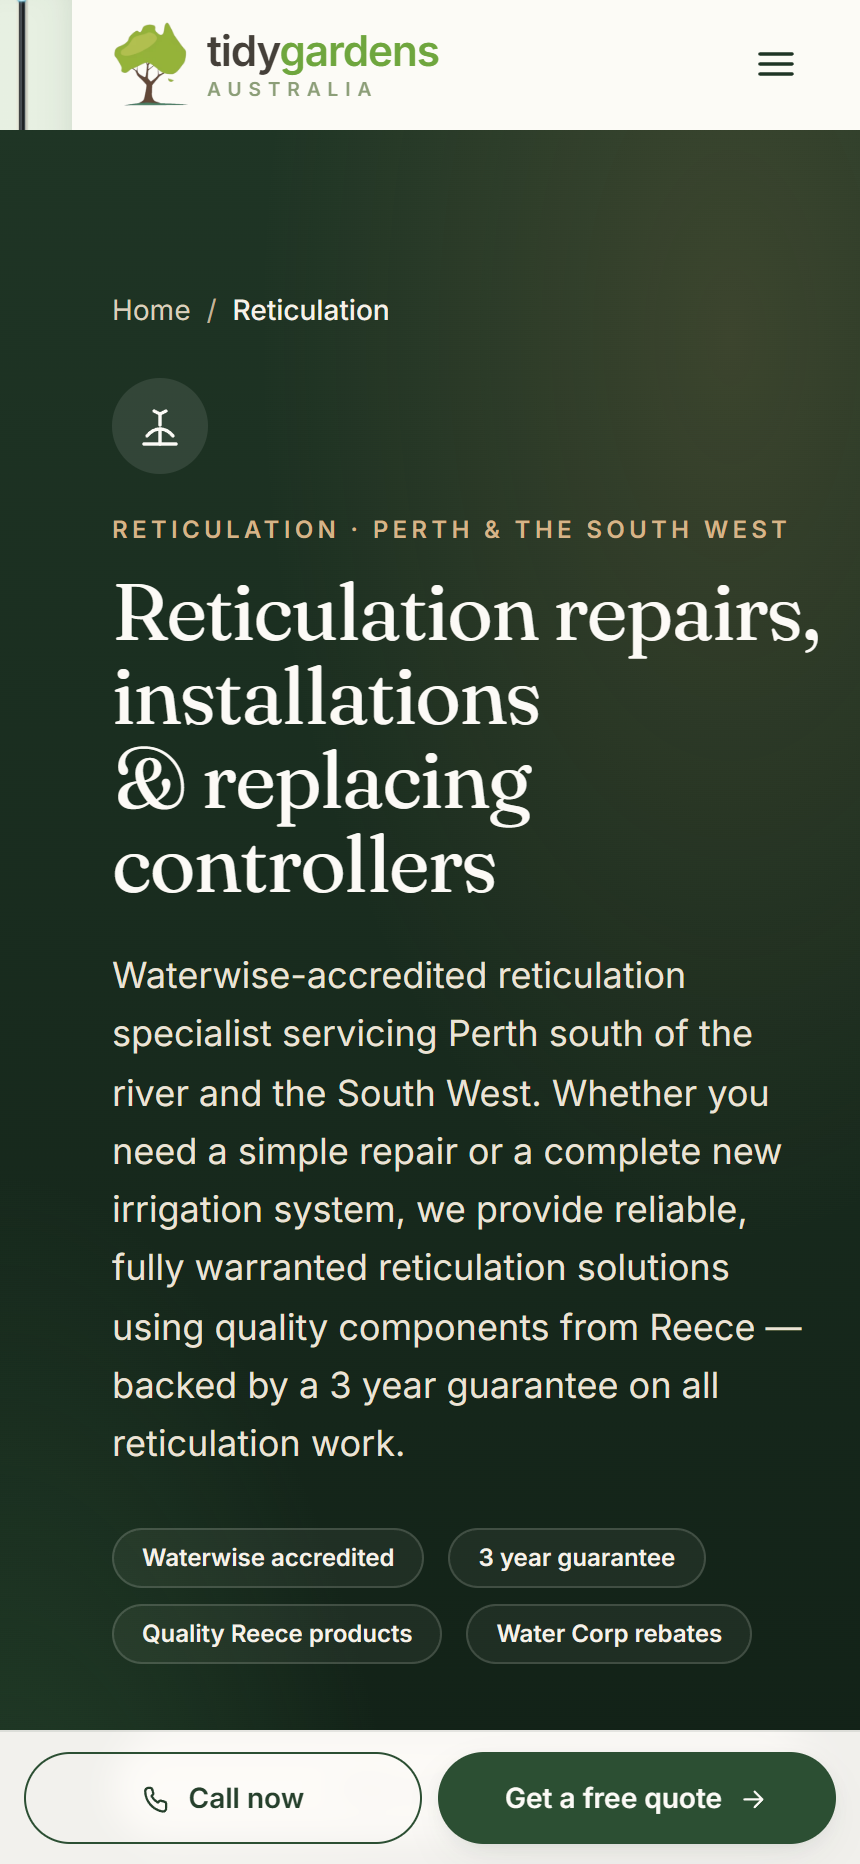
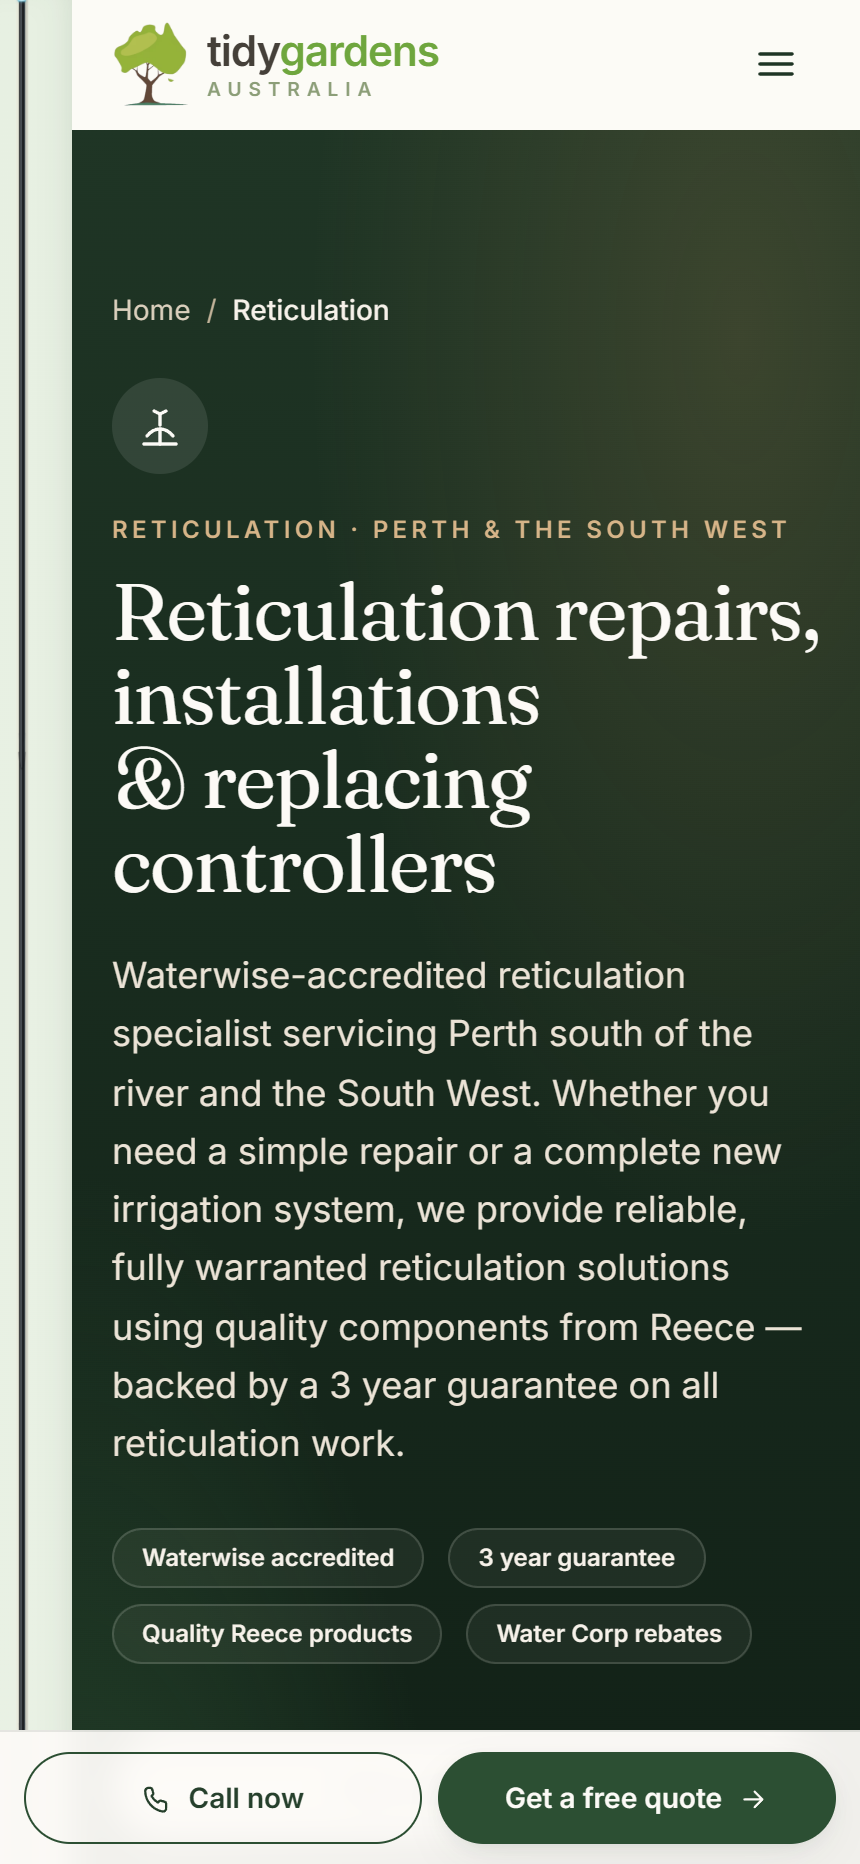
feat(web): concept faces get dual links (live site + portfolio); refreshed Tidy captures
- Each concept on the ServiceWeb carousel now offers TWO ways in: "Live site"
  (opens the deployment in a new tab) and either "Case study" (Barry's, Wooster,
  JK) or "Portfolio" (VEER + IOPA → the Concepts filter, no individual entry
  yet). The whole-card single link is replaced by two explicit action buttons;
  a gentle drag release now holds the drum still so both are tappable on mobile.
- Tidy Gardens recaptured (its inner service pages changed again — reticulation
  + lawn-care grew); web-arm webp re-derived (tidy-hero / tidy-f2 / tidy-f3 /
  plx-tidy).

diff --git a/src/components/web-arm/ConceptCarousel.jsx b/src/components/web-arm/ConceptCarousel.jsx
@@ -5,9 +5,11 @@
  *   · Idles at a slow spin (3°/s), pauses under the pointer, and
  *     hands over to drag — pointer velocity carries through release
  *     with inertia, then the idle drift resumes.
- *   · Every face is a real link (three case studies, two live concept
- *     sites). A drag past 6px suppresses the click so spinning never
- *     misfires a navigation.
+ *   · Every face offers TWO links — the live deployment and its place
+ *     in the portfolio (a case study, or the Concepts filter for the
+ *     two without their own entry yet). A drag past 6px suppresses the
+ *     click so spinning never misfires a navigation; a gentle release
+ *     holds the drum still so both links are tappable on a phone.
  *   · Arrow keys rotate one face per press (the wrap is focusable).
  *   · staticMode / prefers-reduced-motion: the five render as a flat
  *     shelf — no cylinder, no rAF, nothing moves.
@@ -24,14 +26,18 @@ import cptJk from './assets/cpt-jk.webp';
 import cptVeer from './assets/cpt-veer.webp';
 import cptIopa from './assets/cpt-iopa.webp';
 
+/* Every concept offers TWO ways in: the live deployment, and its place
+   in the portfolio (a dedicated case study where one exists, otherwise
+   the Concepts filter). VEER + IOPA have no individual case study yet,
+   so they route to the Concepts view. */
 const CONCEPTS = [
   {
     key: 'barrys',
     name: "Barry's Drink",
     line: 'An RTD brand world with a physics-driven hero — grabbable, throwable 3D cans.',
     img: cptBarrys,
-    to: '/CaseStudy?slug=barrys-drink',
-    tag: 'Case study',
+    live: 'https://barrys-drink-concept.vercel.app',
+    portfolio: '/CaseStudy?slug=barrys-drink',
     alt: "Barry's Drink concept site — floating drink cans over the brand hero.",
   },
   {
@@ -39,8 +45,8 @@ const CONCEPTS = [
     name: 'Wooster Core',
     line: 'A storefront whose product 3D-prints itself in front of you, layer by layer.',
     img: cptWooster,
-    to: '/CaseStudy?slug=wooster-core',
-    tag: 'Case study',
+    live: 'https://wooster-henna.vercel.app',
+    portfolio: '/CaseStudy?slug=wooster-core',
     alt: 'Wooster Core concept storefront — WebGL FDM print hero.',
   },
   {
@@ -48,8 +54,8 @@ const CONCEPTS = [
     name: 'JK Plumbing',
     line: 'A lead-gen trade site built before any brief existed — and ready to book jobs.',
     img: cptJk,
-    to: '/CaseStudy?slug=jk-plumbing-solutions',
-    tag: 'Case study',
+    live: 'https://jk-plumbing-tau.vercel.app',
+    portfolio: '/CaseStudy?slug=jk-plumbing-solutions',
     alt: 'JK Plumbing concept site — licensed-trade lead generation hero.',
   },
   {
@@ -57,8 +63,8 @@ const CONCEPTS = [
     name: 'VEER',
     line: 'A bike turn-indicator you demo yourself — grab the 3D handlebar and steer to fire it.',
     img: cptVeer,
-    href: 'https://veer-demo.netlify.app',
-    tag: 'Live concept',
+    live: 'https://veer-demo.netlify.app',
+    portfolio: '/Portfolio?filter=concept',
     alt: 'VEER concept site — "Be seen from the side." over a 3D handlebar.',
   },
   {
@@ -66,8 +72,8 @@ const CONCEPTS = [
     name: 'IOPA Apparel',
     line: 'Streetwear staged as a live broadcast — scroll-tune the whole site like a radio.',
     img: cptIopa,
-    href: 'https://iopa-apparel.vercel.app',
-    tag: 'Live concept',
+    live: 'https://iopa-apparel.vercel.app',
+    portfolio: '/Portfolio?filter=concept',
     alt: 'IOPA Apparel concept site — CHOP LIFE hero over a dithered transmission orb.',
   },
 ];
@@ -75,25 +81,53 @@ const CONCEPTS = [
 const FACES = CONCEPTS.length;
 const STEP = 360 / FACES;
 
+const ExtIcon = () => (
+  <svg width="12" height="12" viewBox="0 0 24 24" fill="none" stroke="currentColor" strokeWidth="2.4" strokeLinecap="round" strokeLinejoin="round" aria-hidden="true">
+    <path d="M7 17 17 7M8 7h9v9" />
+  </svg>
+);
+const ArrowIcon = () => (
+  <svg width="12" height="12" viewBox="0 0 24 24" fill="none" stroke="currentColor" strokeWidth="2.4" strokeLinecap="round" strokeLinejoin="round" aria-hidden="true">
+    <path d="M5 12h14M13 6l6 6-6 6" />
+  </svg>
+);
+
 function FaceCard({ item }) {
-  const body = (
-    <>
-      <img src={item.img} width={800} height={500} loading="lazy" decoding="async" alt={item.alt} />
+  const caseStudy = item.portfolio.startsWith('/CaseStudy');
+  return (
+    <div className="lv-cpt-card">
+      <span className="lv-cpt-shot">
+        <img src={item.img} width={800} height={500} loading="lazy" decoding="async" alt={item.alt} />
+      </span>
       <span className="lv-cpt-meta">
         <span className="lv-cpt-name">{item.name}</span>
         <span className="lv-cpt-line">{item.line}</span>
-        <span className="lv-cpt-tag">{item.tag} →</span>
+        <span className="lv-cpt-actions">
+          <a
+            className="lv-cpt-act lv-cpt-act--live"
+            href={item.live}
+            target="_blank"
+            rel="noopener noreferrer"
+            draggable="false"
+            data-cpt-link
+            aria-label={`Open the live ${item.name} site in a new tab`}
+          >
+            Live site
+            <ExtIcon />
+          </a>
+          <Link
+            className="lv-cpt-act lv-cpt-act--folio"
+            to={item.portfolio}
+            draggable="false"
+            data-cpt-link
+            aria-label={caseStudy ? `Read the ${item.name} case study` : `See ${item.name} in the portfolio`}
+          >
+            {caseStudy ? 'Case study' : 'Portfolio'}
+            <ArrowIcon />
+          </Link>
+        </span>
       </span>
-    </>
-  );
-  return item.href ? (
-    <a className="lv-cpt-card" href={item.href} target="_blank" rel="noopener noreferrer" draggable="false" data-cpt-link>
-      {body}
-    </a>
-  ) : (
-    <Link className="lv-cpt-card" to={item.to} draggable="false" data-cpt-link>
-      {body}
-    </Link>
+    </div>
   );
 }
 
@@ -131,6 +165,9 @@ export default function ConceptCarousel({ staticMode = false }) {
     let lastT = 0;
     let raf = 0;
     let prev = 0;
+    /* After any touch the drum holds still for a beat, so the two action
+       links are easy to hit on a phone (no hover to pause the drift). */
+    let holdUntil = 0;
 
     const tick = (t) => {
       const dt = prev ? Math.min(0.05, (t - prev) / 1000) : 0.016;
@@ -139,7 +176,7 @@ export default function ConceptCarousel({ staticMode = false }) {
         if (Math.abs(vel) > 0.02) {
           rot += vel;
           vel *= 0.945; /* inertia decay */
-        } else if (!hovering) {
+        } else if (!hovering && t > holdUntil) {
           rot += 3 * dt; /* idle drift, °/s */
         }
       }
@@ -179,6 +216,9 @@ export default function ConceptCarousel({ staticMode = false }) {
     const onUp = () => {
       dragging = false;
       wrap.removeAttribute('data-dragging');
+      /* Hold the drum for a beat so the just-fronted card is tappable;
+         a flung release keeps its inertia (vel) and overrides the hold. */
+      if (Math.abs(vel) < 0.6) holdUntil = performance.now() + 2600;
     };
     /* A real drag must not fire the face link it ended on. */
     const onClickCapture = (e) => {

diff --git a/src/components/web-arm/web-arm.css b/src/components/web-arm/web-arm.css
@@ -2584,3 +2584,34 @@
 .lv-cyl-hint.is-done {
   opacity: 0;
 }
+
+/* Concept faces — two ways in (live site + portfolio), not one big link. */
+.lv-cpt-shot { display: block; }
+.lv-cpt-actions {
+  margin-top: 12px;
+  display: flex;
+  gap: 8px;
+}
+.lv-cpt-act {
+  flex: 1;
+  display: inline-flex;
+  align-items: center;
+  justify-content: center;
+  gap: 6px;
+  min-height: 40px;
+  padding: 10px 8px;
+  border-radius: 10px;
+  font-family: var(--lv-sans);
+  font-size: 12.5px;
+  font-weight: 600;
+  letter-spacing: 0.004em;
+  text-decoration: none;
+  cursor: pointer;
+  -webkit-user-drag: none;
+  transition: background 0.25s var(--lv-ease), color 0.25s var(--lv-ease), border-color 0.25s var(--lv-ease);
+}
+.lv-cpt-act svg { flex-shrink: 0; }
+.lv-cpt-act--live { background: var(--lv-ink); color: #fff; }
+.lv-cpt-act--live:hover { background: var(--lv-red); }
+.lv-cpt-act--folio { background: transparent; color: var(--lv-ink); border: 1px solid var(--lv-hair-strong); }
+.lv-cpt-act--folio:hover { border-color: var(--lv-ink); background: rgba(0, 0, 0, 0.03); }
